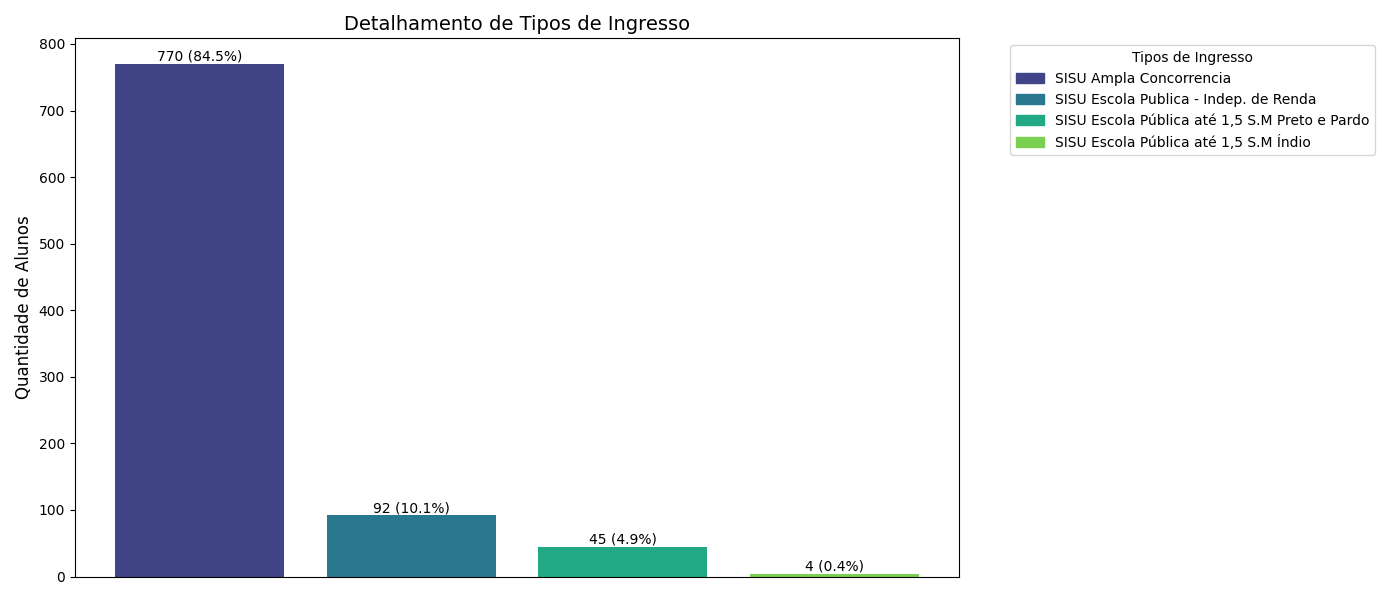
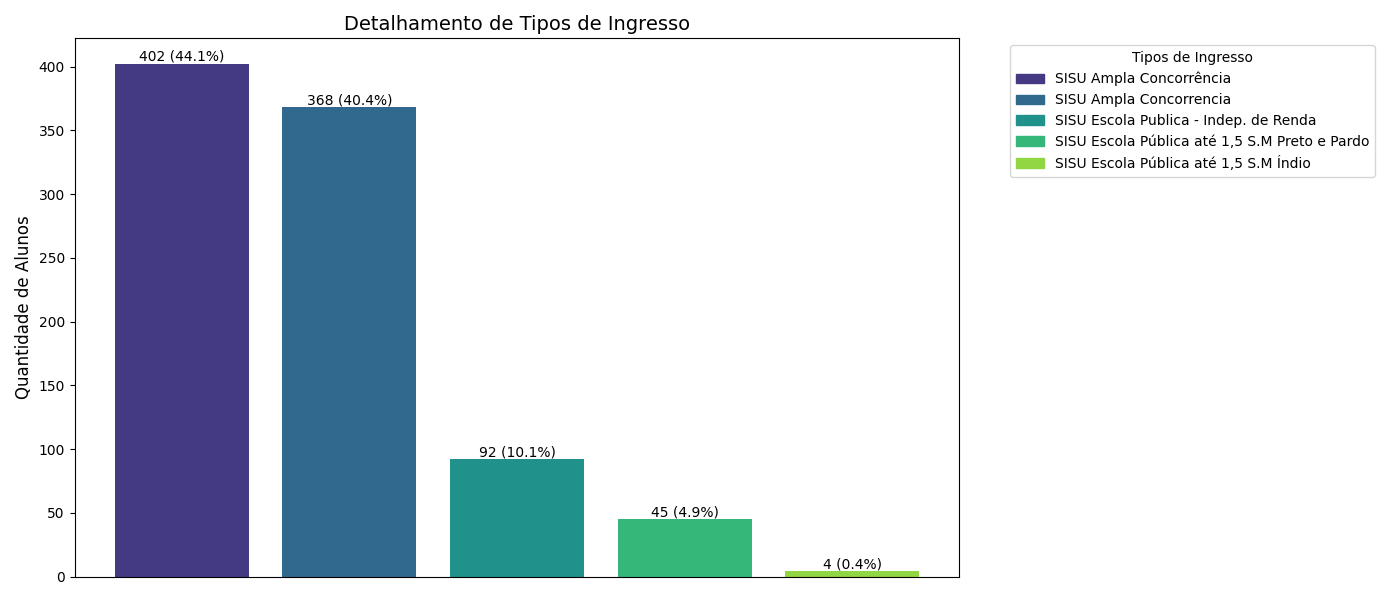
V2 - Adicionado tipo ingresso

diff --git a/src/ingresso/AnaliseTipoIngresso.py b/src/ingresso/AnaliseTipoIngresso.py
@@ -2,243 +2,169 @@ import pandas as pd
 import matplotlib.pyplot as plt
 import seaborn as sns
 from colorama import Fore, Style
-from src.utils.plots import salvar_grafico, ajustar_estilos_grafico
-import matplotlib.patches as mpatches
+from src.utils.plots import salvar_grafico, ajustar_estilos_grafico, adicionar_valores_barras
 
 
 class AnaliseTipoIngresso:
     def __init__(self, dataframe, pasta_graficos):
         """
-        Inicializa a classe para análise de tipo de ingresso.
+        Inicializa a classe para análise de tipo de ingresso e executa os gráficos automaticamente.
 
         :param dataframe: DataFrame formatado com os dados.
         :param pasta_graficos: Caminho da pasta onde os gráficos serão salvos.
         """
-        self.df = dataframe.copy()
-        self.pasta_graficos = pasta_graficos
-
-        # Unificar categorias específicas
-        self.df['FORMA_INGRESSO_SIMPLES'] = self.df['FORMA_INGRESSO_SIMPLES'].replace(
-            {'SISU': 'SISU Ampla Concorrência', 'ENEM': 'SISU Ampla Concorrência', 'Vestibular': 'SISU Ampla Concorrência'}
-        )
-
-    def executar_analises(self):
-        """
-        Executa as análises relacionadas ao tipo de ingresso.
-        """
         print(Fore.CYAN + "Iniciando análises de tipo de ingresso..." + Style.RESET_ALL)
 
-        # Geração dos gráficos e análises
-        self.grafico_distribuicao_tipo_ingresso()
-        self.grafico_cra_por_tipo_ingresso()
-        self.grafico_status_por_tipo_ingresso()
-        self.grafico_detalhamento_tipo_ingresso_sem_eixo_x()
+        self.df = dataframe.copy()
+        self.pasta_graficos = pasta_graficos
+        self.categorizar_periodo_ingresso()  # Criar coluna categorizada dos períodos
+        self.gerar_graficos()  # Gera os gráficos automaticamente
 
         print(Fore.GREEN + "Análises de tipo de ingresso concluídas!" + Style.RESET_ALL)
 
-    def grafico_distribuicao_tipo_ingresso(self):
+    def categorizar_periodo_ingresso(self):
         """
-        Plota a distribuição de alunos por tipo de ingresso.
+        Categoriza os períodos de ingresso em "Pré-Cota", "Pós-Cota", "Pandemia" e "Pós-Pandemia" na ordem correta.
+        """
+
+        def definir_categoria(periodo):
+            if periodo <= 2013:
+                return "Pré-Cota"
+            elif 2014 <= periodo <= 2020:
+                return "Pós-Cota"
+            elif 2020.2 <= periodo <= 2022.2:
+                return "Pandemia"
+            else:
+                return "Pós-Pandemia"
+
+        self.df["PERIODO_CATEGORIZADO"] = self.df["ANO_PERIODO_INGRESSO"].apply(definir_categoria)
+
+        # Definir a ordem correta dos períodos
+        categorias_ordenadas = ["Pré-Cota", "Pós-Cota", "Pandemia", "Pós-Pandemia"]
+        self.df["PERIODO_CATEGORIZADO"] = pd.Categorical(
+            self.df["PERIODO_CATEGORIZADO"], categories=categorias_ordenadas, ordered=True
+        )
+
+    def gerar_graficos(self):
+        """
+        Executa os métodos de geração de gráficos.
+        """
+        self.grafico_cra_por_tipo_ingresso_e_periodo()
+        self.grafico_distribuicao_geral_ingresso()
+
+    def grafico_cra_por_tipo_ingresso_e_periodo(self):
+        """
+        Plota um gráfico de barras com o CRA médio por tipo de ingresso e período.
         """
         try:
-            print(Fore.YELLOW + "Plotando gráfico de distribuição de tipo de ingresso..." + Style.RESET_ALL)
-            contagem = self.df['FORMA_INGRESSO_SIMPLES'].value_counts().reset_index()
-            contagem.columns = ['Tipo de Ingresso', 'Quantidade']
-            contagem['Percentual'] = (contagem['Quantidade'] / contagem['Quantidade'].sum()) * 100
+            print(Fore.YELLOW + "Plotando gráfico de CRA por tipo de ingresso e período..." + Style.RESET_ALL)
 
-            plt.figure(figsize=(10, 6))
+            # Calcular a média do CRA por período e tipo de ingresso, mantendo duas casas decimais
+            df_cra = self.df.groupby(["PERIODO_CATEGORIZADO", "FORMA_INGRESSO_SIMPLES"])["CRA"].mean().reset_index()
+            df_cra["CRA"] = df_cra["CRA"].round(2)  # Arredondar para duas casas decimais
+
+            # Criar o gráfico de barras
+            plt.figure(figsize=(12, 6))
             ax = sns.barplot(
-                x='Tipo de Ingresso',
-                y='Quantidade',
-                data=contagem,
-                palette='pastel'
-            )
-            for i, row in contagem.iterrows():
-                ax.text(i, row['Quantidade'], f"{row['Quantidade']} ({row['Percentual']:.1f}%)", ha='center', va='bottom')
-
-            ajustar_estilos_grafico(
-                ax,
-                title='Distribuição de Alunos por Tipo de Ingresso',
-                xlabel='Tipo de Ingresso',
-                ylabel='Quantidade de Alunos'
-            )
-            salvar_grafico('distribuicao_tipo_ingresso', self.pasta_graficos)
-            plt.close()
-        except Exception as e:
-            print(Fore.RED + f"Erro ao gerar gráfico de distribuição de tipo de ingresso: {e}" + Style.RESET_ALL)
-
-    def grafico_cra_por_tipo_ingresso(self):
-        """
-        Plota a distribuição do CRA médio por tipo de ingresso.
-        """
-        try:
-            print(Fore.YELLOW + "Plotando gráfico de CRA por tipo de ingresso..." + Style.RESET_ALL)
-
-            # Calcula o CRA médio por tipo de ingresso
-            cra_por_tipo = self.df.groupby('FORMA_INGRESSO_SIMPLES')['CRA'].mean().reset_index()
-            cra_por_tipo = cra_por_tipo.sort_values(by='CRA', ascending=False)  # Ordena pela média do CRA
-
-            # Configura o tamanho do gráfico
-            plt.figure(figsize=(10, 6))
-            ax = sns.barplot(
-                x='FORMA_INGRESSO_SIMPLES',
-                y='CRA',
-                data=cra_por_tipo,
-                palette='coolwarm'
+                x="PERIODO_CATEGORIZADO",
+                y="CRA",
+                hue="FORMA_INGRESSO_SIMPLES",
+                data=df_cra,
+                palette="coolwarm"
             )
 
-            # Adiciona os valores no topo das barras
+            # Adicionar os valores no topo das barras, formatando corretamente
             for p in ax.patches:
                 height = p.get_height()
-                if height > 0:  # Evita texto para barras vazias
-                    ax.text(
-                        p.get_x() + p.get_width() / 2.,  # Posição X
-                        height,  # Altura da barra
-                        f"{height:.4f}",  # Valor formatado com 4 casas decimais
-                        ha='center',  # Alinhamento horizontal
-                        va='bottom',  # Posiciona o texto acima da barra
-                        fontsize=10  # Tamanho da fonte
-                    )
-
-            # Ajusta os estilos do gráfico
-            ajustar_estilos_grafico(
-                ax,
-                title='CRA Médio por Tipo de Ingresso',
-                xlabel='Tipo de Ingresso',
-                ylabel='CRA Médio'
-            )
-
-            salvar_grafico('cra_por_tipo_ingresso', self.pasta_graficos)
-            plt.close()
-
-        except Exception as e:
-            print(Fore.RED + f"Erro ao gerar gráfico de CRA por tipo de ingresso: {e}" + Style.RESET_ALL)
-
-    def grafico_detalhamento_tipo_ingresso_sem_eixo_x(self):
-        """
-        Plota um gráfico de barras onde os rótulos são exibidos apenas na legenda.
-        Inclui a união de categorias específicas e ajusta a largura do gráfico.
-        """
-        try:
-            print(Fore.YELLOW + "Plotando detalhamento de tipo de ingresso com rótulos apenas na legenda..." + Style.RESET_ALL)
-
-            # Unificar categorias específicas
-            self.df['FORMA_INGRESSO'] = self.df['FORMA_INGRESSO'].replace(
-                {'SISU': 'SISU Ampla Concorrencia', 'ENEM': 'SISU Ampla Concorrencia', 'Vestibular': 'SISU Ampla Concorrencia',
-                 'VE - Vestibular': 'SISU Ampla Concorrencia', 'EN - ENEM': 'SISU Ampla Concorrencia'}
-            )
-
-            # Calcular proporções diretamente da coluna original
-            detalhamento = self.df['FORMA_INGRESSO'].value_counts().reset_index()
-            detalhamento.columns = ['Tipo Simplificado', 'Quantidade']
-            detalhamento['Percentual'] = (detalhamento['Quantidade'] / detalhamento['Quantidade'].sum()) * 100
-
-            # Log de valores para depuração
-            print(Fore.CYAN + "Valores encontrados para a legenda:" + Style.RESET_ALL)
-            print(detalhamento[['Tipo Simplificado', 'Quantidade', 'Percentual']].to_string(index=False))
-
-            # Criar paleta de cores com tons de 'viridis'
-            cores = sns.color_palette('viridis', len(detalhamento))
-
-            # Configurar o gráfico com largura ajustada
-            plt.figure(figsize=(14, 6))  # Aumentando a largura para 14
-            barras = plt.bar(
-                range(len(detalhamento)),  # Índices genéricos para o eixo X
-                detalhamento['Quantidade'],
-                color=cores
-            )
-
-            # Adicionar valores no topo das barras
-            for i, bar in enumerate(barras):
-                plt.text(
-                    bar.get_x() + bar.get_width() / 2,
-                    bar.get_height(),
-                    f"{detalhamento['Quantidade'][i]} ({detalhamento['Percentual'][i]:.1f}%)",
-                    ha='center',
-                    va='bottom',
-                    fontsize=10
-                )
-
-            # Criar legenda manualmente
-            legend_patches = [
-                mpatches.Patch(color=cores[i], label=detalhamento['Tipo Simplificado'][i])
-                for i in range(len(detalhamento))
-            ]
-            plt.legend(handles=legend_patches, title='Tipos de Ingresso', bbox_to_anchor=(1.05, 1), loc='upper left', fontsize=10)
-
-            # Ajustar estilos do gráfico
-            plt.title('Detalhamento de Tipos de Ingresso', fontsize=14)
-            plt.ylabel('Quantidade de Alunos', fontsize=12)
-            plt.xticks([], [])  # Remover rótulos do eixo X
-            plt.tight_layout()
-
-            # Salvar gráfico
-            salvar_grafico('detalhamento_tipo_ingresso_sem_eixo_x', self.pasta_graficos)
-            plt.close()
-            print(Fore.GREEN + "Gráfico gerado com sucesso!" + Style.RESET_ALL)
-
-        except Exception as e:
-            print(Fore.RED + f"Erro ao gerar gráfico: {e}" + Style.RESET_ALL)
-
-    def grafico_status_por_tipo_ingresso(self):
-        """
-        Plota o status dos alunos (Cursando, Evasão, Concluído) por tipo de ingresso,
-        mostrando a porcentagem relativa ao grupo (máximo 100% por grupo) e ajusta a largura.
-        """
-        try:
-            print(Fore.YELLOW + "Plotando gráfico de status por tipo de ingresso com porcentagens e legenda corrigidas..." + Style.RESET_ALL)
-
-            # Unificar categorias específicas
-            self.df['FORMA_INGRESSO_SIMPLES'] = self.df['FORMA_INGRESSO_SIMPLES'].replace(
-                {'SISU': 'SISU Ampla Concorrência', 'ENEM': 'SISU Ampla Concorrência', 'Vestibular': 'SISU Ampla Concorrência',
-                 'VE - Vestibular': 'SISU Ampla Concorrência', 'EN - ENEM': 'SISU Ampla Concorrência'}
-            )
-
-            # Agrupar e calcular a soma por categoria e status
-            status_por_tipo = self.df.groupby(['FORMA_INGRESSO_SIMPLES', 'STATUS_EVASAO']).size().reset_index(name='Quantidade')
-            total_por_tipo = self.df.groupby('FORMA_INGRESSO_SIMPLES').size().reset_index(name='Total')
-            status_por_tipo = status_por_tipo.merge(total_por_tipo, on='FORMA_INGRESSO_SIMPLES')
-            status_por_tipo['Percentual'] = (status_por_tipo['Quantidade'] / status_por_tipo['Total']) * 100
-
-            # Plotar gráfico com largura ajustada
-            plt.figure(figsize=(14, 8))  # Aumentando a largura para 14
-            ax = sns.barplot(
-                x='FORMA_INGRESSO_SIMPLES',
-                y='Percentual',
-                hue='STATUS_EVASAO',
-                data=status_por_tipo,
-                palette='YlOrRd'
-            )
-
-            # Adicionar porcentagens no topo das barras
-            for p in ax.patches:
-                height = p.get_height()
-                if height > 0:
+                if height > 0:  # Evita adicionar valores em barras vazias
                     ax.text(
                         p.get_x() + p.get_width() / 2.,
                         height,
-                        f'{height:.1f}%',
+                        f"{height:.2f}",  # Formata com duas casas decimais
                         ha='center',
                         va='bottom',
                         fontsize=10
                     )
 
-            # Criar legenda manualmente com cores correspondentes ao hue
-            handles, labels = ax.get_legend_handles_labels()
-            legend_patches = [
-                mpatches.Patch(color=h.get_facecolor(), label=l) for h, l in zip(handles, labels)
-            ]
-            plt.legend(handles=legend_patches, title='Status do Curso', bbox_to_anchor=(1.05, 1), loc='upper left', fontsize=10)
-
-            # Ajustar estilos e salvar gráfico
+            # Ajustar estilos do gráfico
             ajustar_estilos_grafico(
                 ax,
-                title='Status dos Alunos por Tipo de Ingresso',
-                xlabel='Tipo de Ingresso',
-                ylabel='Percentual de Alunos (%)'
+                title="CRA Médio por Tipo de Ingresso e Período",
+                xlabel="Período de Ingresso",
+                ylabel="CRA Médio"
             )
-            salvar_grafico('status_por_tipo_ingresso_corrigido', self.pasta_graficos)
+
+            salvar_grafico("cra_por_tipo_ingresso_e_periodo", self.pasta_graficos)
             plt.close()
+            print(Fore.GREEN + "Gráfico gerado com sucesso!" + Style.RESET_ALL)
+        except Exception as e:
+            print(Fore.RED + f"Erro ao gerar gráfico de CRA por tipo de ingresso e período: {e}" + Style.RESET_ALL)
+
+    def grafico_distribuicao_geral_ingresso(self):
+        """
+        Plota um gráfico de barras mostrando a distribuição geral das formas de ingresso,
+        agrupando os ingressos antes de 2014 em "Ampla Concorrência - Antes das Cotas".
+        """
+        try:
+            print(Fore.YELLOW + "Plotando gráfico de distribuição geral dos tipos de ingresso..." + Style.RESET_ALL)
+
+            # Criar a nova categoria de ingresso agrupando 2008-2013 como "Ampla Concorrência - Antes das Cotas"
+            self.df["CATEGORIA_INGRESSO"] = self.df.apply(
+                lambda row: "Ampla Concorrência - Antes das Cotas" if row["ANO_PERIODO_INGRESSO"] <= 2013 else row["FORMA_INGRESSO"],
+                axis=1
+            )
+
+            # Contagem de alunos por tipo de ingresso
+            df_ingresso = self.df["CATEGORIA_INGRESSO"].value_counts().reset_index()
+            df_ingresso.columns = ["Tipo de Ingresso", "Quantidade"]
+
+            # Calcular percentual do total
+            df_ingresso["Percentual"] = (df_ingresso["Quantidade"] / df_ingresso["Quantidade"].sum()) * 100
+
+            # Criar gráfico de barras
+            plt.figure(figsize=(16, 8))  # Aumentar altura do gráfico
+            ax = sns.barplot(
+                x="Quantidade",
+                y="Tipo de Ingresso",
+                data=df_ingresso,
+                palette="Set2"
+            )
+
+            # Adicionar os valores ao lado direito das barras (Quantidade + %)
+            for p in ax.patches:
+                width = p.get_width()
+                if width > 0:
+                    ax.text(
+                        width + 10,  # Posição do texto um pouco mais distante da barra
+                        p.get_y() + p.get_height() / 2,
+                        f"{int(width)} ({width / df_ingresso['Quantidade'].sum() * 100:.1f}%)",
+                        ha='left',
+                        va='center',
+                        fontsize=10,
+                        fontweight='bold',
+                        color='black'
+                    )
+
+            # Ajustar estilos do gráfico
+            ajustar_estilos_grafico(
+                ax,
+                title="Distribuição Geral das Formas de Ingresso",
+                xlabel="Quantidade de Alunos",
+                ylabel="Tipo de Ingresso"
+            )
+
+            # Ajustar os limites do eixo X para dar mais espaço à direita
+            ax.set_xlim(0, df_ingresso["Quantidade"].max() * 1.2)  # Agora tem 20% de espaço extra
+
+            # Remover a legenda
+            ax.legend().remove()
+
+            # Ajustar espaçamento para evitar cortes
+            plt.tight_layout(pad=2)
+
+            salvar_grafico("distribuicao_geral_ingresso", self.pasta_graficos)
+            plt.close()
+            print(Fore.GREEN + "Gráfico gerado com sucesso!" + Style.RESET_ALL)
 
         except Exception as e:
-            print(Fore.RED + f"Erro ao gerar gráfico de status por tipo de ingresso: {e}" + Style.RESET_ALL)
+            print(Fore.RED + f"Erro ao gerar gráfico de distribuição geral dos tipos de ingresso: {e}" + Style.RESET_ALL)

diff --git a/src/main.py b/src/main.py
@@ -42,7 +42,7 @@ def main(formatar_dados=True, considerar_curriculo_antigo=True):
         # Executar as análises de tipo de ingresso
         pasta_tipo_ingresso = criar_pasta_graficos('graficos/tipo_ingresso')
         analise_tipo_ingresso = AnaliseTipoIngresso(df_formatado, pasta_tipo_ingresso)
-        analise_tipo_ingresso.executar_analises()
+        analise_tipo_ingresso.__init__(df_formatado, pasta_tipo_ingresso)
         print(Fore.CYAN + "Análise de tipo de ingresso concluída!" + Style.RESET_ALL)
 
     except FileNotFoundError as e:
